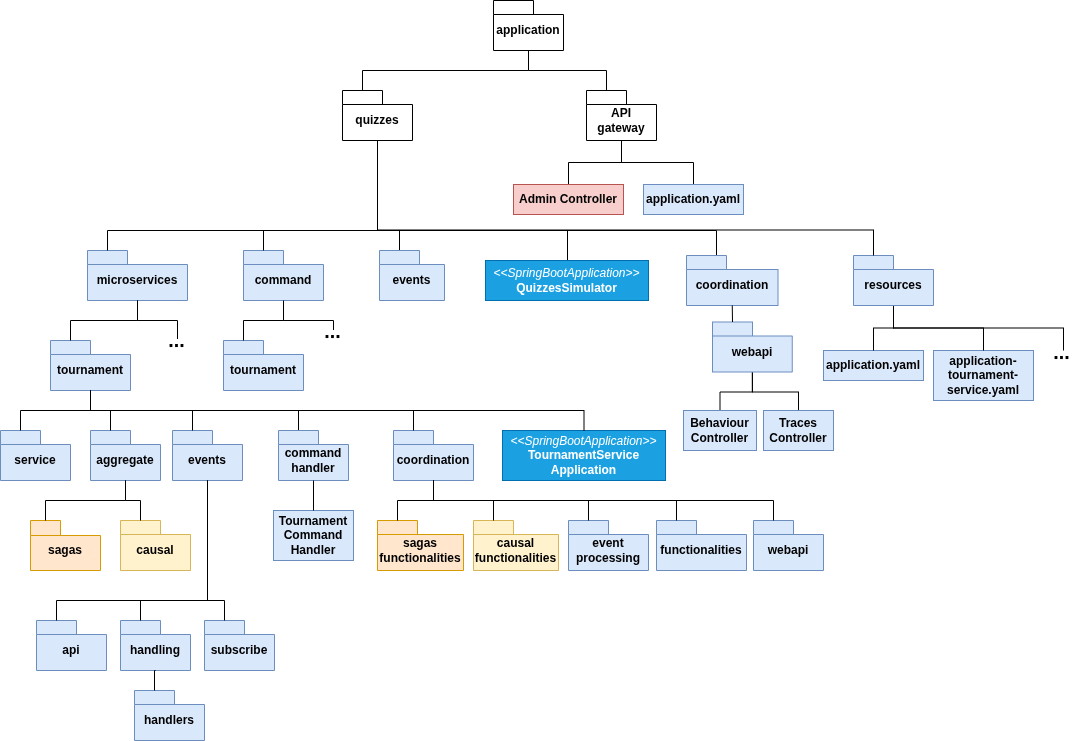
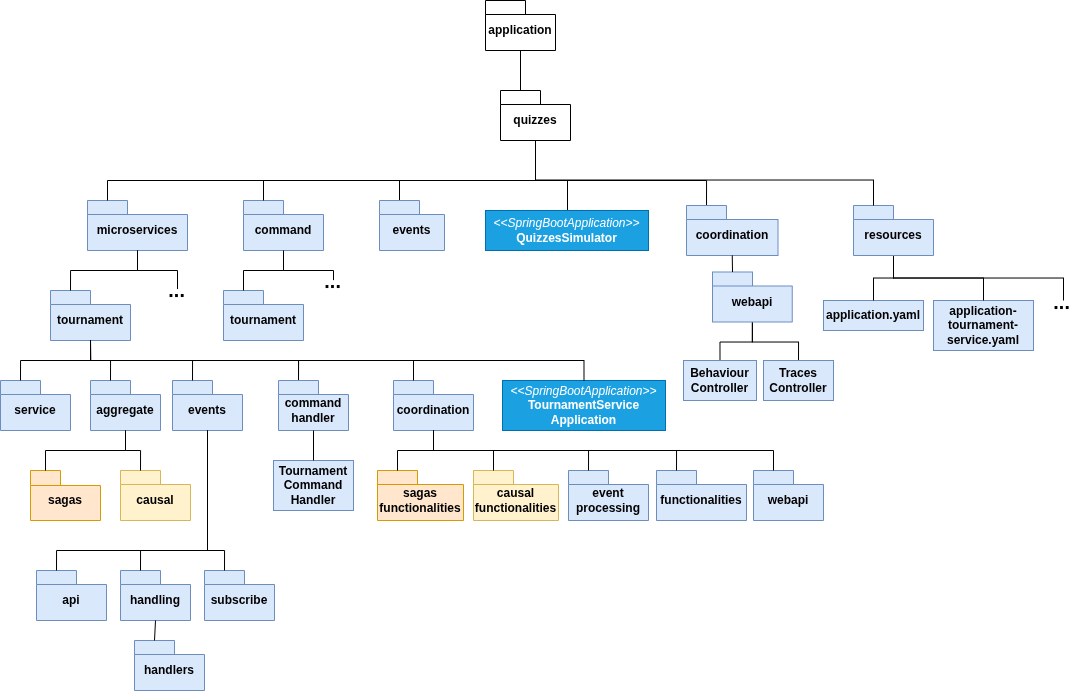
Update README and figs with new API Gateway Add maven profiles for version-service and gateway

diff --git a/README.md b/README.md
@@ -572,11 +572,11 @@ running RabbitMQ for inter-service communication.
 
 #### Running the Microservices
 
-**1. Start the Version Service** (skip this step if using `distributed-version` profile)**:**
+**1. Start the Version Service (stream or grpc)** (skip this step if using `distributed-version` profile)**:**
 
 ```bash
 cd simulator
-mvn clean spring-boot:run -Dspring-boot.run.profiles=version-service,stream -Dspring-boot.run.mainClass=pt.ulisboa.tecnico.socialsoftware.ms.domain.version.VersionServiceApplication
+mvn clean -Pversion-service,stream spring-boot:run
 ```
 
 **2. Start each Quizzes microservice (from `applications/quizzes`):**
@@ -613,7 +613,7 @@ mvn spring-boot:run -Psagas,grpc,distributed-version
 
 ```bash
 cd simulator/
-mvn spring-boot:run -Dspring-boot.run.profiles=gateway -Dspring-boot.run.mainClass=pt.ulisboa.tecnico.socialsoftware.ms.gateway.GatewayApplication
+mvn -Pgateway spring-boot:run
 ```
 
 ---
@@ -729,16 +729,14 @@ map the service name to the service port automatically.
 
 ### API Gateway Configuration
 
-The [Gateway application.yaml](applications/gateway/src/main/resources/application.yaml) configures:
+The [Gateway application-gateway.yaml](simulator/src/main/resources/application-gateway.yaml) configures:
 
-1. **Service discovery** ([lines 8-25](applications/gateway/src/main/resources/application.yaml)): Eureka discovery for
+1. **Service discovery** ([lines 20-28](simulator/src/main/resources/application-gateway.yaml)): Eureka discovery for
    local distributed deployments; Kubernetes discovery is enabled via the `kubernetes` profile.
 
-2. **Route definitions** ([lines 30-87](applications/gateway/src/main/resources/application.yaml)): Map API paths to
-   backend services using `lb://<service>${gateway.service-suffix}` URIs.
+2. **Route definitions** ([lines 290-300 in application.yaml](applications/quizzes/src/main/resources/application.yaml)): The API Gateway is a Spring MVC-based application that dynamically proxies HTTP requests to backend services. Routes are configured via `gateway.routes.imports` referencing the target microservice application properties, which the `DynamicMVCProxyController` uses to forward REST calls.
 
-3. **Version service URL** ([line 18](applications/gateway/src/main/resources/application.yaml)): Base URL for the
-   version service used by admin endpoints.
+3. **Version service URL**: The Admin controller endpoints directly interact with the remote microservices for configuration sync.
 
 ## Code structure
 
@@ -779,7 +777,7 @@ domain specific code.
 ![Application Decomposition](data/figs/application_decomposition.png)
 
 The API Gateway is used when running the quizzes application as microservices to route API requests to the appropriate
-microservice.
+microservice. The gateway operates as an MVC application using a custom dynamic proxy controller to forward REST requests.
 
 ## How to implement and test your own business logic for Sagas and TCC (Illustrated with Quizzes Microservice System)
 
@@ -855,8 +853,8 @@ For the inter-service communication:
 3. **Configure gRPC Server Port** (for `grpc` profile): Define the gRPC server port in the service profile file and
    expose it via Eureka metadata,
    like [tournament-service gRPC config](applications/quizzes/src/main/resources/application-tournament-service.yaml).
-4. **Configure API Gateway Routes**: Define the route mappings in the
-   [Gateway application.yaml](applications/gateway/src/main/resources/application.yaml) to route API requests to the
+4. **Configure API Gateway Routes**: Define the route mappings in the microservice's application yaml file and import it via
+   `gateway.routes.imports` properties to have the MVC proxy controller route HTTP requests to the
    new microservice.
 
 To write tests:
